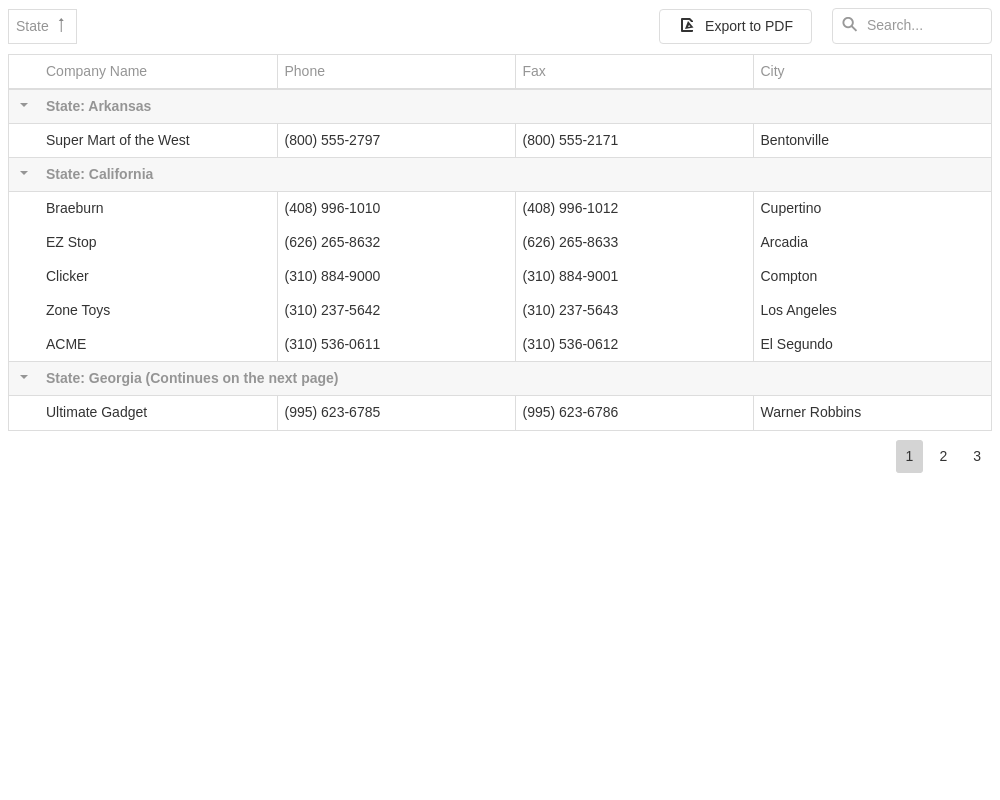
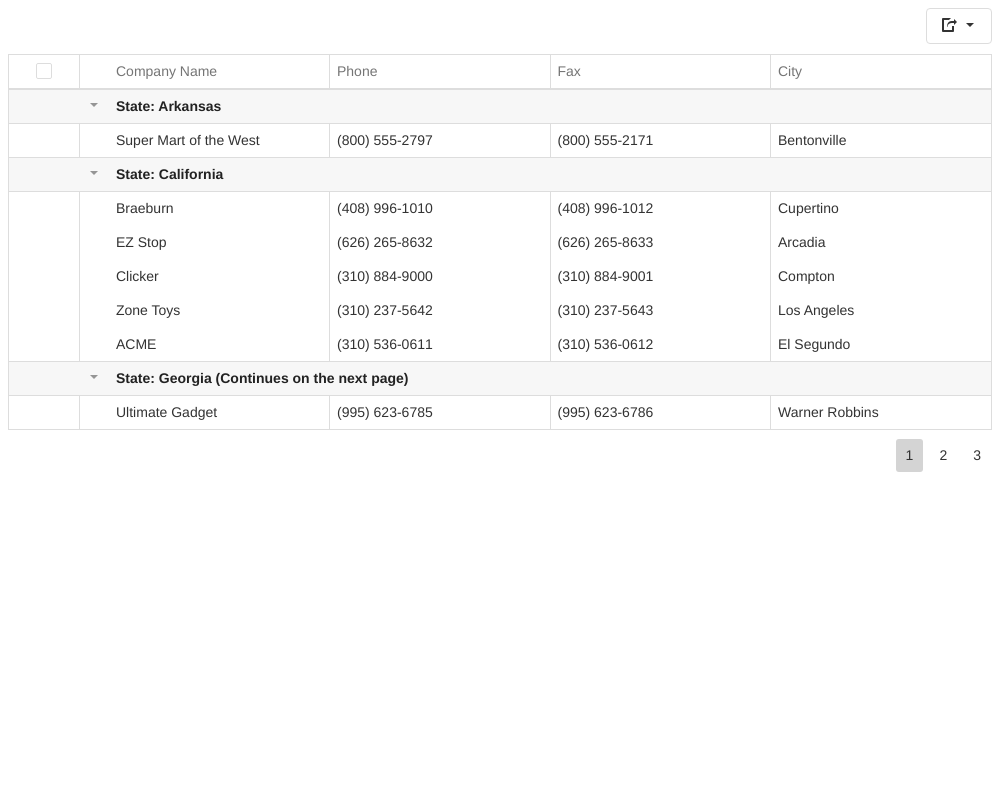
fix tests

diff --git a/apps/demos/utils/visual-tests/matrix-test-helper.js b/apps/demos/utils/visual-tests/matrix-test-helper.js
@@ -181,7 +181,7 @@ const SKIPPED_TESTS = {
       { demo: 'MultipleRecordSelectionAPI', themes: [THEME.material] },
       // Scroll to const value. Not enough for other themes, because the height of elements is different.
       { demo: 'RemoteGrouping', themes: [THEME.fluent, THEME.material] },
-      { demo: 'RowEditingAndEditingEvents', themes: [THEME.fluent, THEME.material] },
+      { demo: 'RowEditing', themes: [THEME.fluent, THEME.material] },
     ],
     Gantt: [
       { demo: 'TaskTemplate', themes: [THEME.generic, THEME.material, THEME.fluent] },